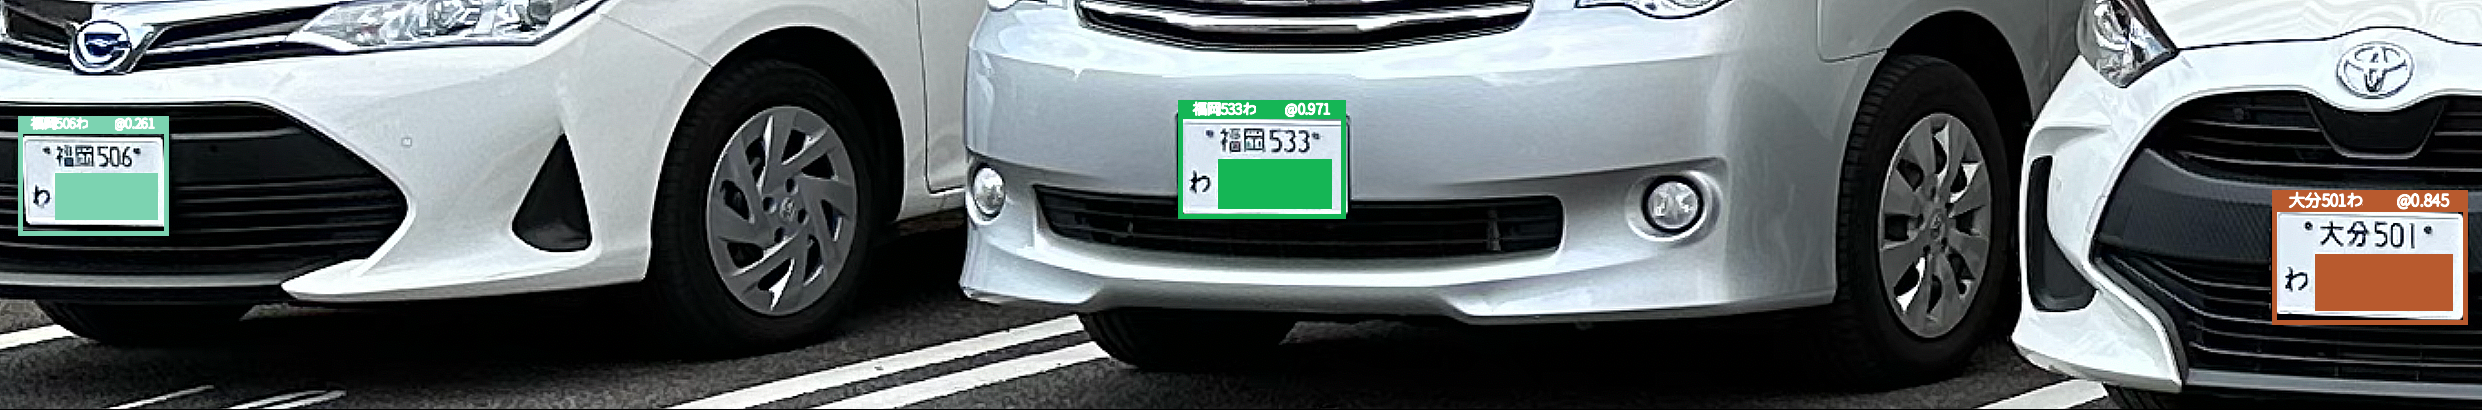
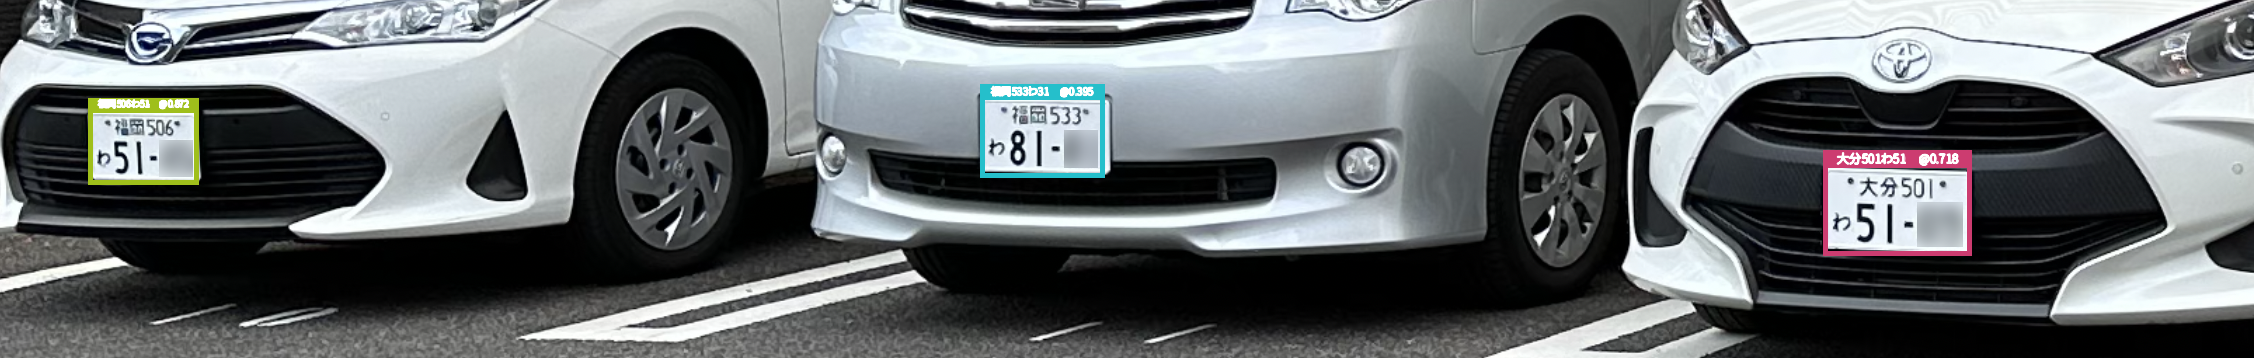
Add readme illustrations

diff --git a/README.md b/README.md
@@ -1,12 +1,13 @@
 # Japanese License Plate Recognition
 ![Example use case](./images/AYapiMKfSYI.png)
 
-A Japanese license plate recognition project implemented with PyTorch.
-> [!Note]
-> For personal research purposes only. Project under development.
+Japanese license plate recognition project implemented with PyTorch. For research purpose only.
 
 ## Hugging Face Space Demo
 Check out the demo at [https://huggingface.co/spaces/eepj/jlpr](https://huggingface.co/spaces/eepj/jlpr).
+
+> [!Warning]
+Expect slower inference on tilted license plates.
 
 ## Japanese License Plate Format
 ### Markings
@@ -69,12 +70,15 @@ Check out the demo at [https://huggingface.co/spaces/eepj/jlpr](https://huggingf
 
 ## Datasets
 ### License Plates Dataset
-* Dataset comprising 350 vehicles and their corresponding license plate bounding boxes for fine-tuning YOLOv8 detection model to detect license plates from images.
+* Dataset comprising 350 vehicles and their corresponding license plate bounding boxes for fine-tuning YOLOv8 segmentation model to detect license plates from images.
 
 ### alpr_jp
-* Dataset comprising 1000+ Japanese license plate images for training character recognition models.
+* Dataset comprising 1000+ unlabeled Japanese license plate images for training character recognition models.
 * Google Search images were used to supplement the dataset in case of missing or less common markings.
+* All markings were manually labeled.
 
+## Approach
+![Approach](images/ZeluqoXjBnVr.png)
 
 ## Training
 ### Model
@@ -95,26 +99,9 @@ Check out the demo at [https://huggingface.co/spaces/eepj/jlpr](https://huggingf
 
 ![Augmentation pipeline](./images/HIMwhOP3XxY.png)
 
-## Metrics
-### License Plate Detection (YOLOv8)
-<table>
-  <tr>
-    <th>Precision(B)</th>
-    <th>Recall(B)</th>
-    <th>mAP50(B)</th>
-    <th>mAP50-95(B)</th>
-    <th>Fitness</th>
-  </tr>
-  <tr>
-    <td>0.84940</td>
-    <td>0.75702</td>
-    <td>0.85128</td>
-    <td>0.63573</td>
-    <td>0.65729</td>
-  </tr>
-</table>
+## Performance
 
-### Character Recognition
+### Metrics
 <table>
   <tr>
     <th>Recognition Task</th>
@@ -123,50 +110,43 @@ Check out the demo at [https://huggingface.co/spaces/eepj/jlpr](https://huggingf
     <th>Accuracy</th>
     <th>Weighted F1</th>
     <th>Params (×10<sup>3</sup>)</th>
-    <th></th>
   </tr>
   <tr>
     <td>① Region Name</td>
-    <td style="white-space: nowrap;">32, 64, 128<br>32, 64, 128, 256<br>16, 32, 64, 128</td>
-    <td>412 (134)<br><br><br></td>
-    <td>0.93046<br>0.97816<br>0.97330</td>
-    <td>0.92476<br>0.97543<br>0.97289</td>
-    <td>368<br>462<br>132</td>
-    <td><br>✅<br>(a)</td>
+    <td style="white-space: nowrap;">64, 128, 256, 512</td>
+    <td>412 (134)</td>
+    <td>0.97573</td>
+    <td>0.97265</td>
+    <td>1690</td>
   </tr>
   <tr>
     <td>② Classification Number</td>
-    <td style="white-space: nowrap;">32, 64, 128<br>16, 32, 64</td>
-    <td>444 (11)<br><br></td>
-    <td>0.97478<br>0.98423</td>
-    <td>0.97760<br>0.98298</td>
-    <td>97.9<br>25.9</td>
-    <td>(b)<br>✅</td>
+    <td style="white-space: nowrap;">64, 128, 256</td>
+    <td>444 (11)</td>
+    <td>0.98423</td>
+    <td>0.98426</td>
+    <td>440</td>
   </tr>
   <tr>
     <td>③ Kana Character</td>
-    <td style="white-space: nowrap;">32, 64, 128<br>32, 64, 128, 256<br>16, 32, 64, 128</td>
-    <td>430 (43)<br><br><br></td>
-    <td>0.95814<br>0.97907<br>0.97674</td>
-    <td>0.95581<br>0.97776<br>0.97519</td>
-    <td>143<br>400<br>103</td>
-    <td><br>✅<br>(a)</td>
+    <td style="white-space: nowrap;">64, 128, 256, 512</td>
+    <td>430 (43)</td>
+    <td>0.97907</td>
+    <td>0.97837</td>
+    <td>680</td>
   </tr>
   <tr>
     <td>④ Designation Number</td>
-    <td style="white-space: nowrap;">32, 64, 128<br>32, 64, 128, 256<br>16, 32, 64</td>
-    <td>547 (11)<br><br><br></td>
-    <td>0.99086<br>0.99269<br>0.99086</td>
-    <td>0.99092<br>0.99271<br>0.99086</td>
-    <td>104<br>395<br>29.4</td>
-    <td><br>(b)<br>✅</td>
+    <td style="white-space: nowrap;">64, 128, 256, 512</td>
+    <td>547 (11)</td>
+    <td>0.99817</td>
+    <td>0.99817</td>
+    <td>646</td>
   </tr>
 </table>
 
-## Observations
-* (a) Model not deployed despite comparable metrics as a substantial decrease in confidence in the predicted classes was observed.
-
-* (b) Increasing the number of parameters resulted in marginal improvement or degraded performance.
+### Example Test Case
+![Example](images/JixorLpQmKaN.png)
 
 ## References
 **alpr_jp**
@@ -192,6 +172,7 @@ https://www.researchgate.net/publication/369470024
 **ナンバープレートの見方 (How to Read a Number Plate)**
 <br>
 https://wwwtb.mlit.go.jp/tohoku/jg/jg-sub29_1.html
+
 
 ## Fun Fact
 This repository was created on [Leap Day 2024](https://doodles.google/doodle/leap-day-2024/).
